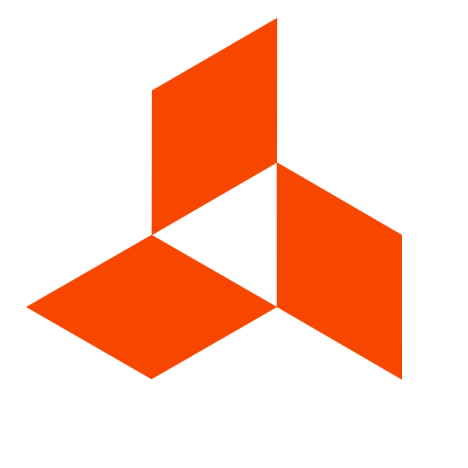
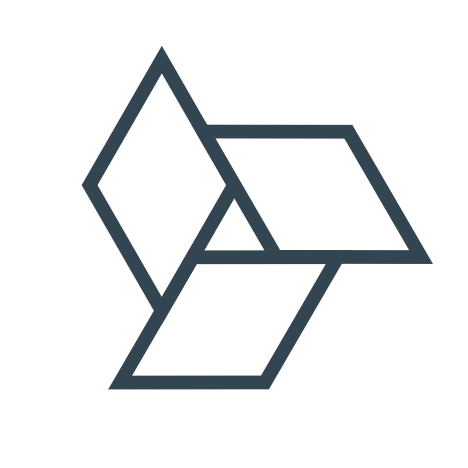
Site updated: 2022-06-06 15:27:42

diff --git a/2022/06/06/new-logo-2022-06-06/index.html b/2022/06/06/new-logo-2022-06-06/index.html
@@ -26,7 +26,7 @@
 <meta property="og:site_name" content="Chipgun">
 <meta property="og:locale" content="en_US">
 <meta property="article:published_time" content="2022-06-06T06:30:33.000Z">
-<meta property="article:modified_time" content="2022-06-06T07:22:59.668Z">
+<meta property="article:modified_time" content="2022-06-06T07:27:33.015Z">
 <meta property="article:author" content="Chipgun">
 <meta name="twitter:card" content="summary">
 
@@ -188,7 +188,7 @@
               <span class="post-meta-item-text">Posted on</span>
               
 
-              <time title="Created: 2022-06-06 14:30:33 / Modified: 15:22:59" itemprop="dateCreated datePublished" datetime="2022-06-06T14:30:33+08:00">2022-06-06</time>
+              <time title="Created: 2022-06-06 14:30:33 / Modified: 15:27:33" itemprop="dateCreated datePublished" datetime="2022-06-06T14:30:33+08:00">2022-06-06</time>
             </span>
 
           
@@ -203,6 +203,20 @@
 
       
         <img src=/2022/06/06/new-logo-2022-06-06/Logo_Tridiamond_Dark.png width=240>
+
+<img src=/2022/06/06/new-logo-2022-06-06/Logo_Tridiamond_Light.png width=240>
+
+<img src=/2022/06/06/new-logo-2022-06-06/Logo_Tridiamond_Unfilled_Dark.png width=240>
+
+<img src=/2022/06/06/new-logo-2022-06-06/Logo_Tridiamond_Unfilled_Light.png width=240>
+
+<img src=/2022/06/06/new-logo-2022-06-06/LogoCN_Tridiamond_Dark.png width=240>
+
+<img src=/2022/06/06/new-logo-2022-06-06/LogoCN_Tridiamond_Light.png width=240>
+
+<img src=/2022/06/06/new-logo-2022-06-06/LogoCN_Tridiamond_Unfilled_Dark.png width=240>
+
+<img src=/2022/06/06/new-logo-2022-06-06/LogoCN_Tridiamond_Unfilled_Light.png width=240>
 
     </div>
 

diff --git a/index.html b/index.html
@@ -188,7 +188,7 @@
               <span class="post-meta-item-text">Posted on</span>
               
 
-              <time title="Created: 2022-06-06 14:30:33 / Modified: 15:22:59" itemprop="dateCreated datePublished" datetime="2022-06-06T14:30:33+08:00">2022-06-06</time>
+              <time title="Created: 2022-06-06 14:30:33 / Modified: 15:27:33" itemprop="dateCreated datePublished" datetime="2022-06-06T14:30:33+08:00">2022-06-06</time>
             </span>
 
           
@@ -203,6 +203,20 @@
 
       
           <img src=/2022/06/06/new-logo-2022-06-06/Logo_Tridiamond_Dark.png width=240>
+
+<img src=/2022/06/06/new-logo-2022-06-06/Logo_Tridiamond_Light.png width=240>
+
+<img src=/2022/06/06/new-logo-2022-06-06/Logo_Tridiamond_Unfilled_Dark.png width=240>
+
+<img src=/2022/06/06/new-logo-2022-06-06/Logo_Tridiamond_Unfilled_Light.png width=240>
+
+<img src=/2022/06/06/new-logo-2022-06-06/LogoCN_Tridiamond_Dark.png width=240>
+
+<img src=/2022/06/06/new-logo-2022-06-06/LogoCN_Tridiamond_Light.png width=240>
+
+<img src=/2022/06/06/new-logo-2022-06-06/LogoCN_Tridiamond_Unfilled_Dark.png width=240>
+
+<img src=/2022/06/06/new-logo-2022-06-06/LogoCN_Tridiamond_Unfilled_Light.png width=240>
 
       
     </div>

diff --git a/css/main.css b/css/main.css
@@ -1168,7 +1168,7 @@ pre .javascript .function {
 }
 .links-of-author a::before,
 .links-of-author span.exturl::before {
-  background: #52b04e;
+  background: #a8f1ff;
   border-radius: 50%;
   content: ' ';
   display: inline-block;
